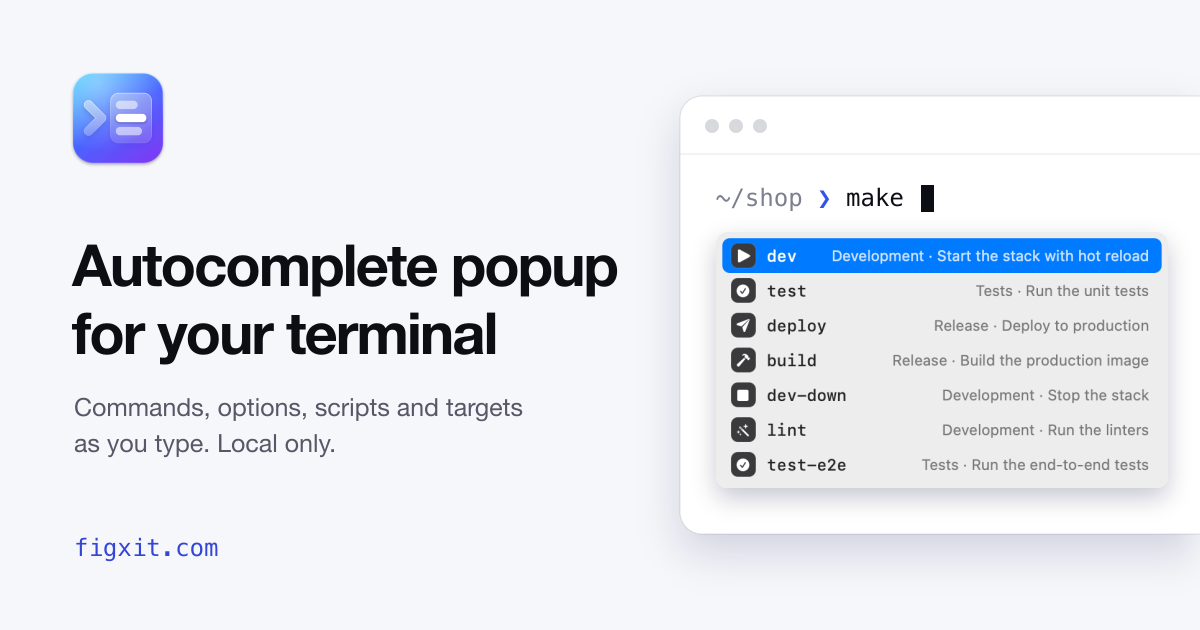
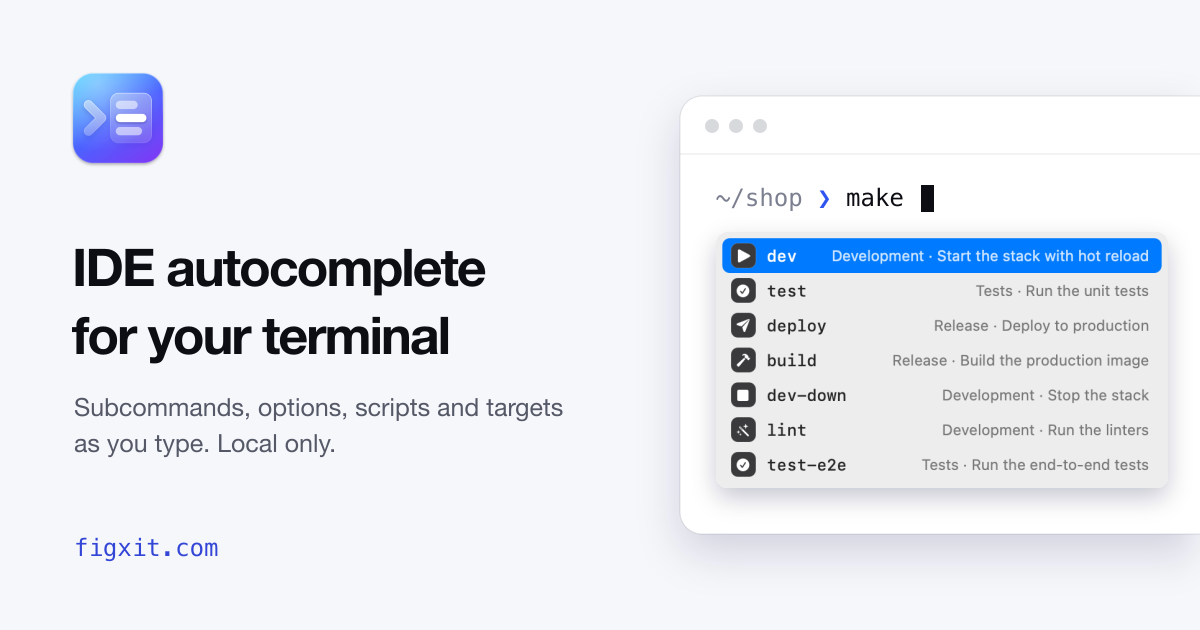
Site: new headline, FAQ, share image

Changed region(s): [[0.0617, 0.3921, 0.5242, 0.4825], [0.0617, 0.4825, 0.4317, 0.6032], [0.0617, 0.6333, 0.4625, 0.6635]]

diff --git a/docs/index.html b/docs/index.html
@@ -3,8 +3,8 @@
 <head>
 <meta charset="utf-8">
 <meta name="viewport" content="width=device-width, initial-scale=1">
-<title>Figxit: autocomplete popup for your terminal</title>
-<meta name="description" content="A native macOS autocomplete popup for zsh, bash, and fish. It lists commands, subcommands, options, scripts, and Makefile targets as you type, ranked by your own history. Local only.">
+<title>Figxit: IDE-style autocomplete for the Mac terminal</title>
+<meta name="description" content="IDE-style autocomplete for the Mac terminal. Figxit lists subcommands, options, npm scripts, and Makefile targets as you type in zsh, bash, or fish. Open source Fig alternative.">
 <meta name="robots" content="index, follow, max-image-preview:large, max-snippet:-1, max-video-preview:-1">
 <meta name="author" content="en3sis">
 <link rel="author" href="https://en3sis.com">
@@ -18,17 +18,17 @@
 <meta property="og:type" content="website">
 <meta property="og:site_name" content="Figxit">
 <meta property="og:url" content="https://figxit.com/">
-<meta property="og:title" content="Figxit: autocomplete popup for your terminal">
-<meta property="og:description" content="A native autocomplete popup for your terminal. No account, no AI chat, no telemetry.">
+<meta property="og:title" content="Figxit: IDE-style autocomplete for the Mac terminal">
+<meta property="og:description" content="IDE-style autocomplete for the Mac terminal, in zsh, bash, and fish. No account, no AI chat, no telemetry.">
 <meta property="og:image" content="https://figxit.com/og.png">
 <meta property="og:image:width" content="1200">
 <meta property="og:image:height" content="630">
-<meta property="og:image:alt" content="Figxit app icon and the line: Autocomplete popup for your terminal">
+<meta property="og:image:alt" content="Figxit app icon, the line IDE autocomplete for your terminal, and a terminal with the suggestion list open">
 <meta name="twitter:card" content="summary_large_image">
-<meta name="twitter:title" content="Figxit: autocomplete popup for your terminal">
-<meta name="twitter:description" content="A native autocomplete popup for your terminal. No account, no AI chat, no telemetry.">
+<meta name="twitter:title" content="Figxit: IDE-style autocomplete for the Mac terminal">
+<meta name="twitter:description" content="IDE-style autocomplete for the Mac terminal, in zsh, bash, and fish. No account, no AI chat, no telemetry.">
 <meta name="twitter:image" content="https://figxit.com/og.png">
-<meta name="twitter:image:alt" content="Figxit app icon and the line: Autocomplete popup for your terminal">
+<meta name="twitter:image:alt" content="Figxit app icon, the line IDE autocomplete for your terminal, and a terminal with the suggestion list open">
 <script type="application/ld+json">
 {
   "@context": "https://schema.org",
@@ -38,7 +38,7 @@
       "@id": "https://figxit.com/#app",
       "name": "Figxit",
       "url": "https://figxit.com/",
-      "description": "A native macOS autocomplete popup for zsh, bash, and fish. It lists commands, subcommands, options, scripts, and Makefile targets as you type, ranked by your own history. Local only.",
+      "description": "IDE-style autocomplete for the Mac terminal. Figxit lists subcommands, options, npm scripts, and Makefile targets as you type in zsh, bash, or fish. Open source Fig alternative.",
       "applicationCategory": "DeveloperApplication",
       "operatingSystem": "macOS 13 or later",
       "processorRequirements": "Apple Silicon",
@@ -66,6 +66,68 @@
       "inLanguage": "en",
       "about": { "@id": "https://figxit.com/#app" },
       "publisher": { "@id": "https://en3sis.com/#person" }
+    },
+    {
+      "@type": "FAQPage",
+      "@id": "https://figxit.com/#faq",
+      "mainEntity": [
+        {
+          "@type": "Question",
+          "name": "Is Figxit a replacement for Fig?",
+          "acceptedAnswer": {
+            "@type": "Answer",
+            "text": "Yes, for Fig's autocomplete: the list that opens as you type, with a description on each row. Figxit loads the same open source completion specs that Fig used. It does not have the other Fig features, such as scripts, dotfile sync, and team sharing, and it has no AI chat."
+          }
+        },
+        {
+          "@type": "Question",
+          "name": "Can I use it in place of Amazon Q or Kiro CLI autocomplete?",
+          "acceptedAnswer": {
+            "@type": "Answer",
+            "text": "Yes, if you only want the autocomplete. Figxit needs no account and has no AI features. It is not affiliated with Fig, Amazon, or Kiro."
+          }
+        },
+        {
+          "@type": "Question",
+          "name": "Is Figxit a replacement for Microsoft inshellisense?",
+          "acceptedAnswer": {
+            "@type": "Answer",
+            "text": "On a Mac with zsh, bash, or fish, yes. Both use the Fig completion specs. inshellisense draws its list inside the terminal session. Figxit shows a native macOS window under the cursor and also ranks rows by your history. inshellisense also runs on Windows and Linux and in other shells, and Figxit does not."
+          }
+        },
+        {
+          "@type": "Question",
+          "name": "Which commands does it know?",
+          "acceptedAnswer": {
+            "@type": "Answer",
+            "text": "The Fig completion specs cover more than 700 tools, for example git, docker, npm, and kubectl. Figxit also reads the Makefile targets and package.json scripts in the current folder."
+          }
+        },
+        {
+          "@type": "Question",
+          "name": "Does Figxit send what I type anywhere?",
+          "acceptedAnswer": {
+            "@type": "Answer",
+            "text": "No. It has no telemetry and no account. Its only network request is the update check, one time each day, and you can turn that off in the menu."
+          }
+        },
+        {
+          "@type": "Question",
+          "name": "Do I need tmux?",
+          "acceptedAnswer": {
+            "@type": "Answer",
+            "text": "No. Figxit works in tmux and directly in Ghostty, iTerm2, and Terminal. Without tmux, a native split of the terminal app gets no list."
+          }
+        },
+        {
+          "@type": "Question",
+          "name": "Is it free?",
+          "acceptedAnswer": {
+            "@type": "Answer",
+            "text": "Yes. Figxit is open source under the MIT licence."
+          }
+        }
+      ]
     },
     {
       "@type": "Person",
@@ -212,6 +274,7 @@ h1 {
   color: transparent;
 }
 .lead { margin: 0 auto 36px; max-width: 60ch; font-size: clamp(17px, 2vw, 20px); color: var(--muted); }
+.lead code { color: var(--text); font-size: 0.9em; }
 .actions { display: flex; flex-wrap: wrap; justify-content: center; gap: 12px; }
 .button {
   display: inline-flex;
@@ -408,6 +471,13 @@ kbd .icon { width: 17px; height: 17px; }
 .cmd button .icon { width: 14px; height: 14px; }
 .cmd button .done, .cmd button.ok .idle { display: none; }
 .cmd button.ok .done { display: block; color: var(--ok); }
+.faq { max-width: 820px; border-top: 1px solid var(--line); }
+.faq details { border-bottom: 1px solid var(--line); }
+.faq summary { display: flex; align-items: center; justify-content: space-between; gap: 16px; padding: 18px 2px; font-size: 17px; font-weight: 600; cursor: pointer; list-style: none; }
+.faq summary::-webkit-details-marker { display: none; }
+.faq summary .icon { flex: none; width: 16px; height: 16px; color: var(--dim); transition: transform 0.15s; }
+.faq details[open] summary .icon { transform: rotate(90deg); }
+.faq p { margin: 0 0 18px; padding: 0 2px; max-width: 68ch; color: var(--muted); }
 .reqs { display: flex; flex-wrap: wrap; gap: 10px; margin-top: 36px; }
 .reqs span { display: inline-flex; align-items: center; gap: 8px; padding: 8px 14px; border: 1px solid var(--line); border-radius: 999px; background: var(--card); font-size: 14px; color: var(--muted); }
 .reqs .icon { width: 15px; height: 15px; color: var(--link); }
@@ -493,6 +563,7 @@ footer a { color: var(--muted); }
 <symbol id="i-arrow-up" viewBox="0 0 24 24"><path d="m5 12 7-7 7 7"/><path d="M12 19V5"/></symbol>
 <symbol id="i-blocks" viewBox="0 0 24 24"><path d="M10 22V7a1 1 0 0 0-1-1H4a2 2 0 0 0-2 2v12a2 2 0 0 0 2 2h12a2 2 0 0 0 2-2v-5a1 1 0 0 0-1-1H2"/><rect x="14" y="2" width="8" height="8" rx="1"/></symbol>
 <symbol id="i-check" viewBox="0 0 24 24"><path d="M20 6 9 17l-5-5"/></symbol>
+<symbol id="i-chevron-right" viewBox="0 0 24 24"><path d="m9 18 6-6-6-6"/></symbol>
 <symbol id="i-copy" viewBox="0 0 24 24"><rect width="14" height="14" x="8" y="8" rx="2" ry="2"/><path d="M4 16c-1.1 0-2-.9-2-2V4c0-1.1.9-2 2-2h10c1.1 0 2 .9 2 2"/></symbol>
 <symbol id="i-corner-down-left" viewBox="0 0 24 24"><path d="M20 4v7a4 4 0 0 1-4 4H4"/><path d="m9 10-5 5 5 5"/></symbol>
 <symbol id="i-cpu" viewBox="0 0 24 24"><path d="M12 20v2"/><path d="M12 2v2"/><path d="M17 20v2"/><path d="M17 2v2"/><path d="M2 12h2"/><path d="M2 17h2"/><path d="M2 7h2"/><path d="M20 12h2"/><path d="M20 17h2"/><path d="M20 7h2"/><path d="M7 20v2"/><path d="M7 2v2"/><rect x="4" y="4" width="16" height="16" rx="2"/><rect x="8" y="8" width="8" height="8" rx="1"/></symbol>
@@ -532,6 +603,7 @@ footer a { color: var(--muted); }
     <a href="#conventions">Conventions</a>
     <a href="#how">How it works</a>
     <a href="#install">Install</a>
+    <a href="#faq">FAQ</a>
     <a class="gh" href="https://github.com/en3sis/figxit"><svg class="icon solid"><use href="#b-github"/></svg>GitHub</a>
   </nav>
 </header>
@@ -539,8 +611,8 @@ footer a { color: var(--muted); }
 <main id="top">
   <div class="hero">
     <span class="badge"><svg class="icon"><use href="#i-scale"/></svg>Open source, MIT licence, macOS</span>
-    <h1>Autocomplete popup for your terminal</h1>
-    <p class="lead">Figxit opens under the cursor as you type and lists the commands, subcommands, options, scripts, and targets that fit, ordered by what you use most in the current project.</p>
+    <h1>IDE autocomplete for your terminal</h1>
+    <p class="lead">Type <code>git</code>, <code>docker</code>, or <code>make</code> and pick the next word from a list, as you would in an editor. Works in zsh, bash, and fish on macOS.</p>
     <div class="actions">
       <a class="button primary" href="https://figxit.com/download/Figxit.dmg"><svg class="icon"><use href="#i-arrow-down"/></svg>Download for macOS</a>
       <a class="button" href="https://github.com/en3sis/figxit"><svg class="icon solid"><use href="#b-github"/></svg>View on GitHub</a>
@@ -781,6 +853,41 @@ footer a { color: var(--muted); }
       <span><svg class="icon solid"><use href="#b-tmux"/></svg>tmux, optional</span>
       <span><svg class="icon"><use href="#i-history"/></svg>Atuin, optional, for ranking</span>
       <span><svg class="icon"><use href="#i-shield-check"/></svg>No Accessibility permission</span>
+    </div>
+  </section>
+
+  <section id="faq">
+    <span class="eyebrow"><svg class="icon"><use href="#i-chevron-right"/></svg>FAQ</span>
+    <h2>Questions and answers</h2>
+    <div class="faq">
+      <details>
+        <summary>Is Figxit a replacement for Fig?<svg class="icon"><use href="#i-chevron-right"/></svg></summary>
+        <p>Yes, for Fig's autocomplete: the list that opens as you type, with a description on each row. Figxit loads the same open source completion specs that Fig used. It does not have the other Fig features, such as scripts, dotfile sync, and team sharing, and it has no AI chat.</p>
+      </details>
+      <details>
+        <summary>Can I use it in place of Amazon Q or Kiro CLI autocomplete?<svg class="icon"><use href="#i-chevron-right"/></svg></summary>
+        <p>Yes, if you only want the autocomplete. Figxit needs no account and has no AI features. It is not affiliated with Fig, Amazon, or Kiro.</p>
+      </details>
+      <details>
+        <summary>Is Figxit a replacement for Microsoft inshellisense?<svg class="icon"><use href="#i-chevron-right"/></svg></summary>
+        <p>On a Mac with zsh, bash, or fish, yes. Both use the Fig completion specs. inshellisense draws its list inside the terminal session. Figxit shows a native macOS window under the cursor and also ranks rows by your history. inshellisense also runs on Windows and Linux and in other shells, and Figxit does not.</p>
+      </details>
+      <details>
+        <summary>Which commands does it know?<svg class="icon"><use href="#i-chevron-right"/></svg></summary>
+        <p>The Fig completion specs cover more than 700 tools, for example git, docker, npm, and kubectl. Figxit also reads the Makefile targets and package.json scripts in the current folder.</p>
+      </details>
+      <details>
+        <summary>Does Figxit send what I type anywhere?<svg class="icon"><use href="#i-chevron-right"/></svg></summary>
+        <p>No. It has no telemetry and no account. Its only network request is the update check, one time each day, and you can turn that off in the menu.</p>
+      </details>
+      <details>
+        <summary>Do I need tmux?<svg class="icon"><use href="#i-chevron-right"/></svg></summary>
+        <p>No. Figxit works in tmux and directly in Ghostty, iTerm2, and Terminal. Without tmux, a native split of the terminal app gets no list.</p>
+      </details>
+      <details>
+        <summary>Is it free?<svg class="icon"><use href="#i-chevron-right"/></svg></summary>
+        <p>Yes. Figxit is open source under the MIT licence.</p>
+      </details>
     </div>
   </section>
 
